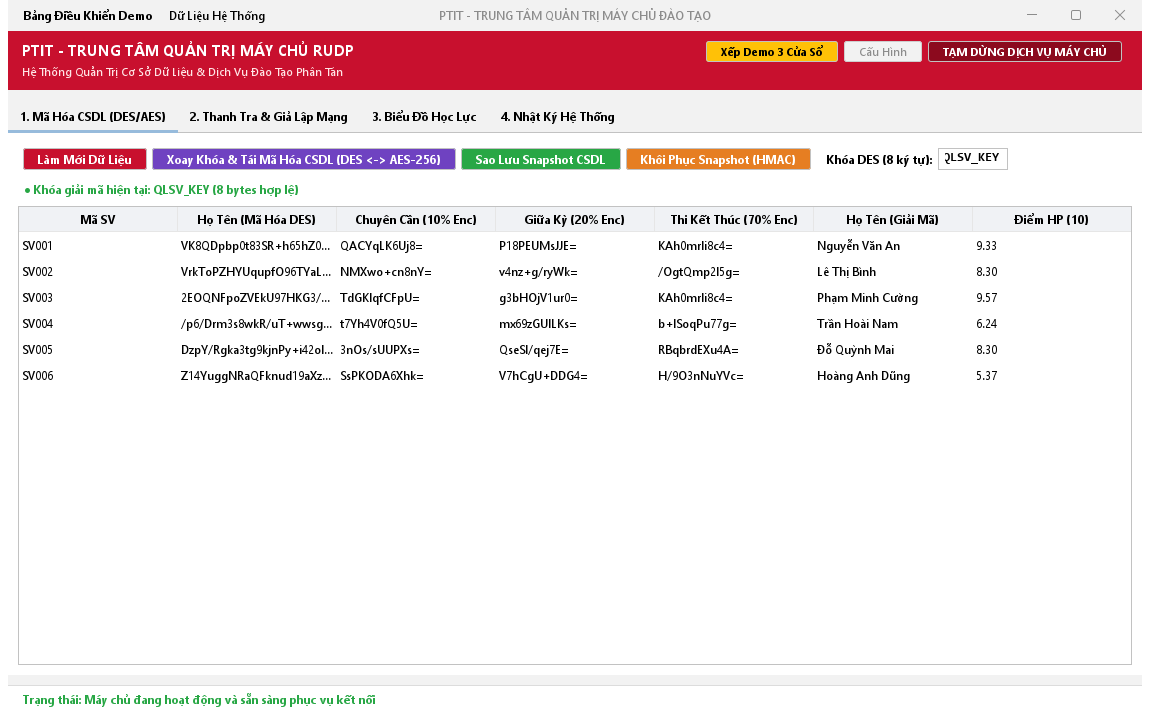
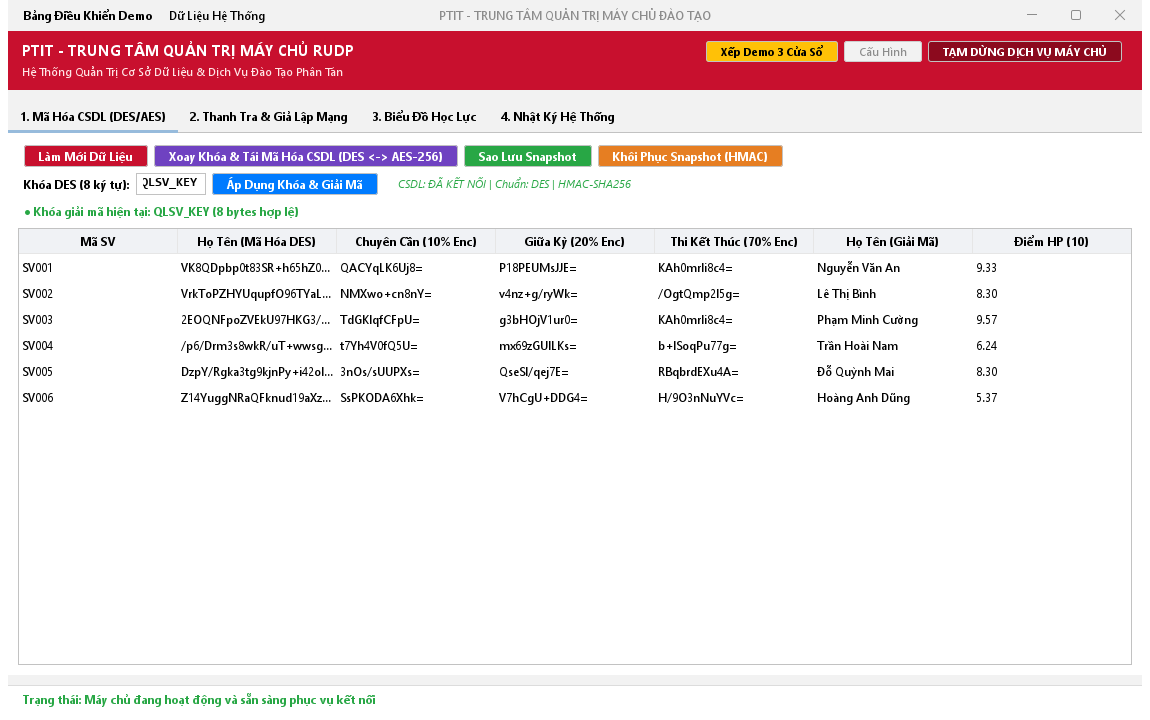
feat(security): Bo sung Bang Gia Lap Tan Cong Mang & IDS (MITM HMAC Tamper, Replay Attack, Brute-Force Lockout) va sua thanh cong cu 2 hang Tab 1 ServerGUI

Changed region(s): [[0.0, 0.1833, 0.8826, 0.5806], [0.8522, 0.275, 0.9435, 0.4889]]

diff --git a/src/main/java/com/qlsv/server/ServerGUI.java b/src/main/java/com/qlsv/server/ServerGUI.java
@@ -143,15 +143,21 @@ public class ServerGUI extends JFrame implements UDPServer.ServerLogListener {
 
         JScrollPane scrollTable = new JScrollPane(tblDataInspection);
 
-        JPanel tableActionBar = new JPanel(new FlowLayout(FlowLayout.LEFT));
+        JPanel tableActionBar = new JPanel(new GridLayout(2, 1, 2, 2));
         tableActionBar.setBackground(Color.WHITE);
+
+        JPanel actionRow1 = new JPanel(new FlowLayout(FlowLayout.LEFT, 6, 2));
+        actionRow1.setBackground(Color.WHITE);
+
+        JPanel actionRow2 = new JPanel(new FlowLayout(FlowLayout.LEFT, 6, 2));
+        actionRow2.setBackground(Color.WHITE);
 
         JButton btnRefreshData = new JButton("Làm Mới Dữ Liệu");
         btnRefreshData.setBackground(PTIT_RED);
         btnRefreshData.setForeground(Color.WHITE);
         btnRefreshData.setFont(new Font("Segoe UI", Font.BOLD, 12));
         btnRefreshData.addActionListener(e -> refreshDataInspection());
-        tableActionBar.add(btnRefreshData);
+        actionRow1.add(btnRefreshData);
 
         JButton btnRotateKey = new JButton("Xoay Khóa & Tái Mã Hóa CSDL (DES <-> AES-256)");
         btnRotateKey.setBackground(new Color(111, 66, 193));
@@ -159,15 +165,15 @@ public class ServerGUI extends JFrame implements UDPServer.ServerLogListener {
         btnRotateKey.setFont(new Font("Segoe UI", Font.BOLD, 12));
         btnRotateKey.setFocusPainted(false);
         btnRotateKey.addActionListener(e -> handleLiveKeyRotation());
-        tableActionBar.add(btnRotateKey);
+        actionRow1.add(btnRotateKey);
 
-        JButton btnBackupSnapshot = new JButton("Sao Lưu Snapshot CSDL");
+        JButton btnBackupSnapshot = new JButton("Sao Lưu Snapshot");
         btnBackupSnapshot.setBackground(new Color(40, 167, 69));
         btnBackupSnapshot.setForeground(Color.WHITE);
         btnBackupSnapshot.setFont(new Font("Segoe UI", Font.BOLD, 12));
         btnBackupSnapshot.setFocusPainted(false);
         btnBackupSnapshot.addActionListener(e -> handleBackupSnapshot());
-        tableActionBar.add(btnBackupSnapshot);
+        actionRow1.add(btnBackupSnapshot);
 
         JButton btnRestoreSnapshot = new JButton("Khôi Phục Snapshot (HMAC)");
         btnRestoreSnapshot.setBackground(new Color(230, 126, 34));
@@ -175,17 +181,16 @@ public class ServerGUI extends JFrame implements UDPServer.ServerLogListener {
         btnRestoreSnapshot.setFont(new Font("Segoe UI", Font.BOLD, 12));
         btnRestoreSnapshot.setFocusPainted(false);
         btnRestoreSnapshot.addActionListener(e -> handleRestoreSnapshot());
-        tableActionBar.add(btnRestoreSnapshot);
+        actionRow1.add(btnRestoreSnapshot);
 
-        tableActionBar.add(Box.createHorizontalStrut(6));
         JLabel lblKeyPrompt = new JLabel("Khóa DES (8 ký tự):");
         lblKeyPrompt.setFont(new Font("Segoe UI", Font.BOLD, 12));
-        tableActionBar.add(lblKeyPrompt);
+        actionRow2.add(lblKeyPrompt);
 
         txtInlineDesKey = new JTextField(DatabaseManager.getInstance().getDesKey(), 8);
         txtInlineDesKey.setFont(new Font("Consolas", Font.BOLD, 13));
         txtInlineDesKey.setToolTipText("Nhập đúng 8 ký tự (ví dụ QLSV_KEY để giải mã đúng, hoặc WRONGKEY để demo bắt lỗi BadPaddingException)");
-        tableActionBar.add(txtInlineDesKey);
+        actionRow2.add(txtInlineDesKey);
 
         JButton btnApplyDesKey = new JButton("Áp Dụng Khóa & Giải Mã");
         btnApplyDesKey.setBackground(new Color(0, 123, 255));
@@ -193,12 +198,15 @@ public class ServerGUI extends JFrame implements UDPServer.ServerLogListener {
         btnApplyDesKey.setFont(new Font("Segoe UI", Font.BOLD, 12));
         btnApplyDesKey.setFocusPainted(false);
         btnApplyDesKey.addActionListener(e -> handleApplyInlineDesKey());
-        tableActionBar.add(btnApplyDesKey);
+        actionRow2.add(btnApplyDesKey);
 
         lblDbStatus = new JLabel("Trạng thái CSDL: Chưa kết nối");
         lblDbStatus.setFont(new Font("Segoe UI", Font.ITALIC, 11));
-        tableActionBar.add(Box.createHorizontalStrut(6));
-        tableActionBar.add(lblDbStatus);
+        actionRow2.add(Box.createHorizontalStrut(8));
+        actionRow2.add(lblDbStatus);
+
+        tableActionBar.add(actionRow1);
+        tableActionBar.add(actionRow2);
 
         lblCryptoVerifyStatus = new JLabel("● Khóa giải mã hiện tại: QLSV_KEY (8 bytes hợp lệ)");
         lblCryptoVerifyStatus.setFont(new Font("Segoe UI", Font.BOLD, 12));
@@ -447,12 +455,12 @@ public class ServerGUI extends JFrame implements UDPServer.ServerLogListener {
         panel.setBackground(Color.WHITE);
         panel.setBorder(BorderFactory.createEmptyBorder(10, 12, 10, 12));
 
-        // 1. Top Box: Network Chaos Simulator & Gradebook Governance
-        JPanel topBox = new JPanel(new GridLayout(2, 1, 6, 6));
+        // 1. Top Box: Network Chaos Simulator, Gradebook Governance & Security Penetration Testing (IDS)
+        JPanel topBox = new JPanel(new GridLayout(3, 1, 4, 4));
         topBox.setBackground(new Color(248, 249, 252));
         topBox.setBorder(BorderFactory.createTitledBorder(
                 BorderFactory.createLineBorder(PTIT_RED, 1),
-                " PHÒNG THÍ NGHIỆM MẠNG RUDP 2.0 (CHAOS SIMULATOR) & QUẢN TRỊ HỌC VỤ ",
+                " PHÒNG THÍ NGHIỆM MẠNG RUDP 2.0 (CHAOS SIMULATOR), KIỂM THỬ XÂM NHẬP (IDS) & QUẢN TRỊ HỌC VỤ ",
                 javax.swing.border.TitledBorder.LEFT, javax.swing.border.TitledBorder.TOP,
                 new Font("Segoe UI", Font.BOLD, 12), PTIT_RED
         ));
@@ -566,7 +574,7 @@ public class ServerGUI extends JFrame implements UDPServer.ServerLogListener {
         btnStressBenchmark.setFocusPainted(false);
         btnStressBenchmark.addActionListener(e -> runRudpStressBenchmark());
 
-        lblChaosTelemetry = new JLabel("● Gói nhận: 0 | Rớt giả lập: 0 | Push Clients: 0 | Chữ ký: HMAC-SHA256");
+        lblChaosTelemetry = new JLabel("● Gói nhận: 0 | Rớt giả lập: 0 | IDS chặn tấn công: 0 | Push Clients: 0");
         lblChaosTelemetry.setFont(new Font("Segoe UI", Font.BOLD, 12));
         lblChaosTelemetry.setForeground(new Color(30, 90, 160));
 
@@ -574,11 +582,46 @@ public class ServerGUI extends JFrame implements UDPServer.ServerLogListener {
         row2.add(btnBroadcast);
         row2.add(btnRefreshAudit);
         row2.add(btnStressBenchmark);
-        row2.add(Box.createHorizontalStrut(6));
-        row2.add(lblChaosTelemetry);
+
+        // Row 3: Live Cyber-Attack & Intrusion Detection System (IDS) Simulator
+        JPanel row3 = new JPanel(new FlowLayout(FlowLayout.LEFT, 8, 2));
+        row3.setOpaque(false);
+
+        JLabel lblIdsTitle = new JLabel("Giả lập Tấn công Bảo mật (IDS Test):");
+        lblIdsTitle.setFont(new Font("Segoe UI", Font.BOLD, 12));
+        lblIdsTitle.setForeground(PTIT_DARK_RED);
+
+        JButton btnAttackMitm = new JButton("1. Tấn Công Sửa Điểm MITM (HMAC Tamper)");
+        btnAttackMitm.setFont(new Font("Segoe UI", Font.BOLD, 11));
+        btnAttackMitm.setBackground(new Color(220, 53, 69));
+        btnAttackMitm.setForeground(Color.WHITE);
+        btnAttackMitm.setFocusPainted(false);
+        btnAttackMitm.addActionListener(e -> simulateMitmTamperingAttack());
+
+        JButton btnAttackReplay = new JButton("2. Tấn Công Phát Lại Gói Cũ (Replay Attack)");
+        btnAttackReplay.setFont(new Font("Segoe UI", Font.BOLD, 11));
+        btnAttackReplay.setBackground(new Color(230, 126, 34));
+        btnAttackReplay.setForeground(Color.WHITE);
+        btnAttackReplay.setFocusPainted(false);
+        btnAttackReplay.addActionListener(e -> simulateReplayAttack());
+
+        JButton btnAttackBruteForce = new JButton("3. Tấn Công Dò Mật Khẩu (Brute-Force 5 Lần)");
+        btnAttackBruteForce.setFont(new Font("Segoe UI", Font.BOLD, 11));
+        btnAttackBruteForce.setBackground(new Color(108, 117, 125));
+        btnAttackBruteForce.setForeground(Color.WHITE);
+        btnAttackBruteForce.setFocusPainted(false);
+        btnAttackBruteForce.addActionListener(e -> simulateBruteForceAttack());
+
+        row3.add(lblIdsTitle);
+        row3.add(btnAttackMitm);
+        row3.add(btnAttackReplay);
+        row3.add(btnAttackBruteForce);
+        row3.add(Box.createHorizontalStrut(6));
+        row3.add(lblChaosTelemetry);
 
         topBox.add(row1);
         topBox.add(row2);
+        topBox.add(row3);
         panel.add(topBox, BorderLayout.NORTH);
 
         // 2. Center Box: Immutable Audit Log Table
@@ -636,10 +679,125 @@ public class ServerGUI extends JFrame implements UDPServer.ServerLogListener {
 
     private void updateChaosTelemetryLabel() {
         if (lblChaosTelemetry != null && udpServer != null) {
-            lblChaosTelemetry.setText(String.format("● Gói UDP nhận: %d  |  Rớt giả lập (ARQ): %d  |  Kênh Push Online: %d  |  HMAC-SHA256: BẬT",
+            lblChaosTelemetry.setText(String.format("● Gói nhận: %d | Rớt (ARQ): %d | IDS chặn: %d | Push: %d",
                     udpServer.getTotalPacketsReceived(),
                     udpServer.getTotalPacketsDroppedByChaos(),
+                    udpServer.getTotalSecurityThreatsBlocked(),
                     udpServer.getActivePushSubscriberCount()));
+        }
+    }
+
+    private void simulateMitmTamperingAttack() {
+        if (udpServer == null || !udpServer.isRunning()) {
+            JOptionPane.showMessageDialog(this, "Máy chủ RUDP chưa chạy!", "Thông báo", JOptionPane.WARNING_MESSAGE);
+            return;
+        }
+        try (java.net.DatagramSocket attackerSocket = new java.net.DatagramSocket()) {
+            attackerSocket.setSoTimeout(3000);
+            // 1. Tạo gói tin cập nhật điểm hợp lệ và ký HMAC-SHA256
+            com.qlsv.network.UDPPacket pkt = com.qlsv.network.UDPPacket.createUpdateRequest(
+                    "{\"studentId\":\"SV001\",\"fullName\":\"Vũ Khánh Bích\",\"scoreMath\":7.0,\"scoreLiterature\":7.0,\"scoreEnglish\":7.0}",
+                    "attacker-token");
+            pkt.setSequenceNum(9901);
+            pkt.signPacket();
+            String validHmac = pkt.getHmacSignature();
+
+            // 2. Kẻ tấn công MITM chặn gói tin trên đường truyền và sửa điểm 7.0 thành 10.0 mà không biết khóa bí mật HMAC
+            pkt.setPayload("{\"studentId\":\"SV001\",\"fullName\":\"Vũ Khánh Bích (HACKED 10.0)\",\"scoreMath\":10.0,\"scoreLiterature\":10.0,\"scoreEnglish\":10.0}");
+            byte[] tamperedBytes = pkt.toBytesWithoutResigning();
+
+            java.net.InetAddress addr = java.net.InetAddress.getByName("127.0.0.1");
+            attackerSocket.send(new java.net.DatagramPacket(tamperedBytes, tamperedBytes.length, addr, serverPort));
+
+            byte[] buf = new byte[8192];
+            java.net.DatagramPacket respDp = new java.net.DatagramPacket(buf, buf.length);
+            attackerSocket.receive(respDp);
+            com.qlsv.network.UDPPacket resp = com.qlsv.network.UDPPacket.fromBytes(respDp.getData(), respDp.getLength());
+
+            refreshAuditLogs();
+            updateChaosTelemetryLabel();
+            JOptionPane.showMessageDialog(this,
+                    "=== KẾT QUẢ GIẢ LẬP TẤN CÔNG MITM SỬA ĐIỂM TRÊN ĐƯỜNG TRUYỀN ===\n\n" +
+                    "1. Gói tin gốc đã ký HMAC-SHA256:\n   " + validHmac + "\n" +
+                    "2. Hành vi tấn công: Kẻ gian bắt gói UDP và sửa Payload điểm SV001 thành 10.0.\n" +
+                    "3. Phản ứng của Máy chủ RUDP (IDS Firewall):\n   -> " + (resp != null ? resp.getMessage() : "Đã chặn gói tin") + "\n" +
+                    "4. Trạng thái CSDL: Điểm của SV001 được BẢO TOÀN 100%, hành vi tấn công đã bị ghi vào Nhật ký Thanh tra (BLOCK_MITM_HMAC)!",
+                    "IDS Đã Chặn Đứng Tấn Công MITM (HMAC-SHA256 Mismatch)", JOptionPane.WARNING_MESSAGE);
+        } catch (Exception ex) {
+            JOptionPane.showMessageDialog(this, "Lỗi giả lập MITM: " + ex.getMessage(), "Lỗi", JOptionPane.ERROR_MESSAGE);
+        }
+    }
+
+    private void simulateReplayAttack() {
+        if (udpServer == null || !udpServer.isRunning()) {
+            JOptionPane.showMessageDialog(this, "Máy chủ RUDP chưa chạy!", "Thông báo", JOptionPane.WARNING_MESSAGE);
+            return;
+        }
+        try (java.net.DatagramSocket attackerSocket = new java.net.DatagramSocket()) {
+            attackerSocket.setSoTimeout(3000);
+            // Tạo gói tin cũ có Timestamp cách đây 15 phút (vượt quá cửa sổ Anti-Replay 5 phút)
+            com.qlsv.network.UDPPacket pkt = com.qlsv.network.UDPPacket.createUpdateRequest(
+                    "{\"studentId\":\"SV001\",\"fullName\":\"Vũ Khánh Bích\",\"scoreMath\":9.5,\"scoreLiterature\":9.5,\"scoreEnglish\":9.5}",
+                    "captured-old-token");
+            pkt.setSequenceNum(9902);
+            long expiredTimestamp = System.currentTimeMillis() - (15 * 60 * 1000L);
+            pkt.setTimestamp(expiredTimestamp);
+            pkt.signPacket(); // Dù chữ ký HMAC hợp lệ nhưng gói tin đã quá hạn thời gian
+            byte[] replayBytes = pkt.toBytesWithoutResigning();
+
+            java.net.InetAddress addr = java.net.InetAddress.getByName("127.0.0.1");
+            attackerSocket.send(new java.net.DatagramPacket(replayBytes, replayBytes.length, addr, serverPort));
+
+            byte[] buf = new byte[8192];
+            java.net.DatagramPacket respDp = new java.net.DatagramPacket(buf, buf.length);
+            attackerSocket.receive(respDp);
+            com.qlsv.network.UDPPacket resp = com.qlsv.network.UDPPacket.fromBytes(respDp.getData(), respDp.getLength());
+
+            refreshAuditLogs();
+            updateChaosTelemetryLabel();
+            JOptionPane.showMessageDialog(this,
+                    "=== KẾT QUẢ GIẢ LẬP TẤN CÔNG PHÁT LẠI GÓI TIN CŨ (REPLAY ATTACK) ===\n\n" +
+                    "1. Hành vi tấn công: Kẻ gian thu lén (Sniffing) một gói UDP hợp lệ đã gửi cách đây 15 phút và phát lại lên Server.\n" +
+                    "2. Kiểm tra Cửa sổ Thời gian (Anti-Replay Window +-5 phút):\n   Độ lệch Timestamp = 900 giây (> 300 giây cho phép).\n" +
+                    "3. Phản ứng của Máy chủ RUDP (IDS Firewall):\n   -> " + (resp != null ? resp.getMessage() : "Đã hủy gói tin quá hạn") + "\n" +
+                    "4. Nhật ký Thanh tra: Đã ghi nhận sự kiện BLOCK_REPLAY_ATTACK!",
+                    "IDS Đã Chặn Đứng Tấn Công Replay Attack", JOptionPane.WARNING_MESSAGE);
+        } catch (Exception ex) {
+            JOptionPane.showMessageDialog(this, "Lỗi giả lập Replay Attack: " + ex.getMessage(), "Lỗi", JOptionPane.ERROR_MESSAGE);
+        }
+    }
+
+    private void simulateBruteForceAttack() {
+        if (udpServer == null || !udpServer.isRunning()) {
+            JOptionPane.showMessageDialog(this, "Máy chủ RUDP chưa chạy!", "Thông báo", JOptionPane.WARNING_MESSAGE);
+            return;
+        }
+        final String targetAccount = "hacker_demo";
+        SessionManager.getInstance().clearLoginFailures(targetAccount);
+        StringBuilder logBuilder = new StringBuilder("=== KẾT QUẢ GIẢ LẬP TẤN CÔNG DÒ MẬT KHẨU (BRUTE-FORCE RATE LIMITING) ===\n\n");
+        try (java.net.DatagramSocket attackerSocket = new java.net.DatagramSocket()) {
+            attackerSocket.setSoTimeout(3000);
+            java.net.InetAddress addr = java.net.InetAddress.getByName("127.0.0.1");
+
+            for (int attempt = 1; attempt <= 6; attempt++) {
+                com.qlsv.network.UDPPacket loginPkt = com.qlsv.network.UDPPacket.createLogin(targetAccount, "wrong_pass_" + attempt);
+                loginPkt.setSequenceNum(9910 + attempt);
+                byte[] bytes = loginPkt.toBytes();
+                attackerSocket.send(new java.net.DatagramPacket(bytes, bytes.length, addr, serverPort));
+
+                byte[] buf = new byte[8192];
+                java.net.DatagramPacket respDp = new java.net.DatagramPacket(buf, buf.length);
+                attackerSocket.receive(respDp);
+                com.qlsv.network.UDPPacket resp = com.qlsv.network.UDPPacket.fromBytes(respDp.getData(), respDp.getLength());
+                logBuilder.append(String.format("• Lần thử #%d (pass='wrong_pass_%d'):\n   -> %s\n",
+                        attempt, attempt, resp != null ? resp.getMessage() : "Timeout"));
+            }
+            refreshAuditLogs();
+            updateChaosTelemetryLabel();
+            JOptionPane.showMessageDialog(this, logBuilder.toString(),
+                    "IDS Đã Kích Hoạt Khóa Tài Khoản Chống Brute-Force (60 Giây)", JOptionPane.WARNING_MESSAGE);
+        } catch (Exception ex) {
+            JOptionPane.showMessageDialog(this, "Lỗi giả lập Brute-Force: " + ex.getMessage(), "Lỗi", JOptionPane.ERROR_MESSAGE);
         }
     }
 

diff --git a/src/main/java/com/qlsv/server/UDPServer.java b/src/main/java/com/qlsv/server/UDPServer.java
@@ -56,6 +56,7 @@ public class UDPServer {
     private final AtomicLong totalPacketsReceived = new AtomicLong(0);
     private final AtomicLong totalPacketsDroppedByChaos = new AtomicLong(0);
     private final AtomicLong totalPushEventsSent = new AtomicLong(0);
+    private final AtomicLong totalSecurityThreatsBlocked = new AtomicLong(0);
 
     // Active Client Push Subscribers (Key: "ip:pushPort" -> InetSocketAddress)
     private final Map<String, InetSocketAddress> pushSubscribers = new ConcurrentHashMap<>();
@@ -184,6 +185,10 @@ public class UDPServer {
         return pushSubscribers.size();
     }
 
+    public long getTotalSecurityThreatsBlocked() {
+        return totalSecurityThreatsBlocked.get();
+    }
+
     public synchronized void start() throws Exception {
         if (running) return;
         socket = new DatagramSocket(port);
@@ -284,17 +289,31 @@ public class UDPServer {
 
             // 2. Kiểm tra chữ ký toàn vẹn HMAC-SHA256 & Chống Replay Attack
             if (!packet.verifyIntegrity()) {
-                log(String.format("[CẢNH BÁO AN NINH] Chữ ký HMAC-SHA256 KHÔNG HỢP LỆ trên gói [Seq#%d | %s] từ %s:%d! Từ chối xử lý.",
-                        seq, packet.getType(), clientIp, clientPort));
-                sendPacket(UDPPacket.createError("BẢO MẬT RUDP: Chữ ký số HMAC-SHA256 không hợp lệ (Gói tin có dấu hiệu bị can thiệp)!"),
+                totalSecurityThreatsBlocked.incrementAndGet();
+                String alert = String.format("Chặn đứng gói tin [Seq#%d | %s] bị sửa đổi Payload trên đường truyền (Sai chữ ký HMAC-SHA256)!",
+                        seq, packet.getType());
+                log("[IDS CẢNH BÁO AN NINH - MITM TAMPERING] " + alert);
+                DatabaseManager.getInstance().logAudit("IDS-FIREWALL", "BLOCK_MITM_HMAC", alert, clientIp);
+                broadcastPushEvent("SECURITY_ALERT", "[IDS CẢNH BÁO AN NINH] " + alert, clientIp);
+                if (logListener != null) {
+                    logListener.onDataUpdated();
+                }
+                sendPacket(UDPPacket.createError("BẢO MẬT RUDP (IDS): Chữ ký số HMAC-SHA256 không hợp lệ (Gói tin có dấu hiệu bị can thiệp MITM)!"),
                         seq, clientAddress, clientPort);
                 return;
             }
 
             if (!packet.isReplayValid()) {
-                log(String.format("[CẢNH BÁO AN NINH] Phát hiện gói tin quá hạn Timestamp (Replay Attack) [Seq#%d] từ %s:%d!",
-                        seq, clientIp, clientPort));
-                sendPacket(UDPPacket.createError("BẢO MẬT RUDP: Gói tin đã hết hạn Timestamp (Chống tấn công phát lại - Anti-Replay)!"),
+                totalSecurityThreatsBlocked.incrementAndGet();
+                String alert = String.format("Chặn đứng gói tin phát lại quá hạn Timestamp (Replay Attack > 5 phút) [Seq#%d | %s]!",
+                        seq, packet.getType());
+                log("[IDS CẢNH BÁO AN NINH - REPLAY ATTACK] " + alert);
+                DatabaseManager.getInstance().logAudit("IDS-FIREWALL", "BLOCK_REPLAY_ATTACK", alert, clientIp);
+                broadcastPushEvent("SECURITY_ALERT", "[IDS CẢNH BÁO AN NINH] " + alert, clientIp);
+                if (logListener != null) {
+                    logListener.onDataUpdated();
+                }
+                sendPacket(UDPPacket.createError("BẢO MẬT RUDP (IDS): Gói tin đã hết hạn Timestamp (Chống tấn công phát lại - Anti-Replay)!"),
                         seq, clientAddress, clientPort);
                 return;
             }
@@ -342,9 +361,13 @@ public class UDPServer {
 
                         long lockRemain = SessionManager.getInstance().getRemainingLockoutSeconds(username);
                         if (lockRemain > 0) {
+                            totalSecurityThreatsBlocked.incrementAndGet();
                             DatabaseManager.getInstance().logAudit(username, "LOGIN_LOCKED",
                                     "Tài khoản đang bị khóa Brute-force (" + lockRemain + "s)", clientIp);
                             log(String.format("[CẢNH BÁO BRUTE-FORCE] Chặn đăng nhập '%s' từ %s (Đang khóa còn %ds)", username, clientIp, lockRemain));
+                            if (logListener != null) {
+                                logListener.onDataUpdated();
+                            }
                             responsePacket = UDPPacket.createLoginResponse(false,
                                     "BẢO VỆ CHỐNG BRUTE-FORCE: Tài khoản tạm khóa do nhập sai nhiều lần! Vui lòng thử lại sau " + lockRemain + " giây.",
                                     null, null);
@@ -359,9 +382,17 @@ public class UDPServer {
                             responsePacket = UDPPacket.createLoginResponse(true, "Đăng nhập thành công!", token, gson.toJson(acc));
                         } else {
                             int failCount = SessionManager.getInstance().recordLoginFailure(username);
+                            if (failCount >= 5) {
+                                totalSecurityThreatsBlocked.incrementAndGet();
+                                broadcastPushEvent("SECURITY_ALERT",
+                                        "[IDS BRUTE-FORCE LOCKOUT] Đã khóa tài khoản '" + username + "' trong 60s do dò mật khẩu 5 lần liên tiếp!", clientIp);
+                            }
                             DatabaseManager.getInstance().logAudit(username, "LOGIN_FAILED",
                                     "Sai mật khẩu lần " + failCount + "/5", clientIp);
                             log(String.format("Xác thực THẤT BẠI cho '%s' (Lần sai: %d/5)", username, failCount));
+                            if (logListener != null) {
+                                logListener.onDataUpdated();
+                            }
                             String msg = failCount >= 5
                                     ? "Sai mật khẩu 5 lần liên tiếp! Tài khoản đã bị khóa tạm thời 60 giây để bảo vệ an ninh."
                                     : String.format("Sai tên đăng nhập hoặc mật khẩu! (Cảnh báo an ninh: Lần thử sai %d/5)", failCount);

diff --git a/src/main/java/com/qlsv/network/UDPPacket.java b/src/main/java/com/qlsv/network/UDPPacket.java
@@ -239,6 +239,13 @@ public class UDPPacket {
 
     public byte[] toBytes() {
         this.signPacket();
+        return toBytesWithoutResigning();
+    }
+
+    /**
+     * Đóng gói mảng byte giữ nguyên chữ ký và timestamp hiện tại (dùng cho Kiểm thử Thâm nhập Bảo mật MITM / Replay Attack).
+     */
+    public byte[] toBytesWithoutResigning() {
         String json = gson.toJson(this);
         byte[] raw = json.getBytes(StandardCharsets.UTF_8);
         if (raw.length > 512) {
